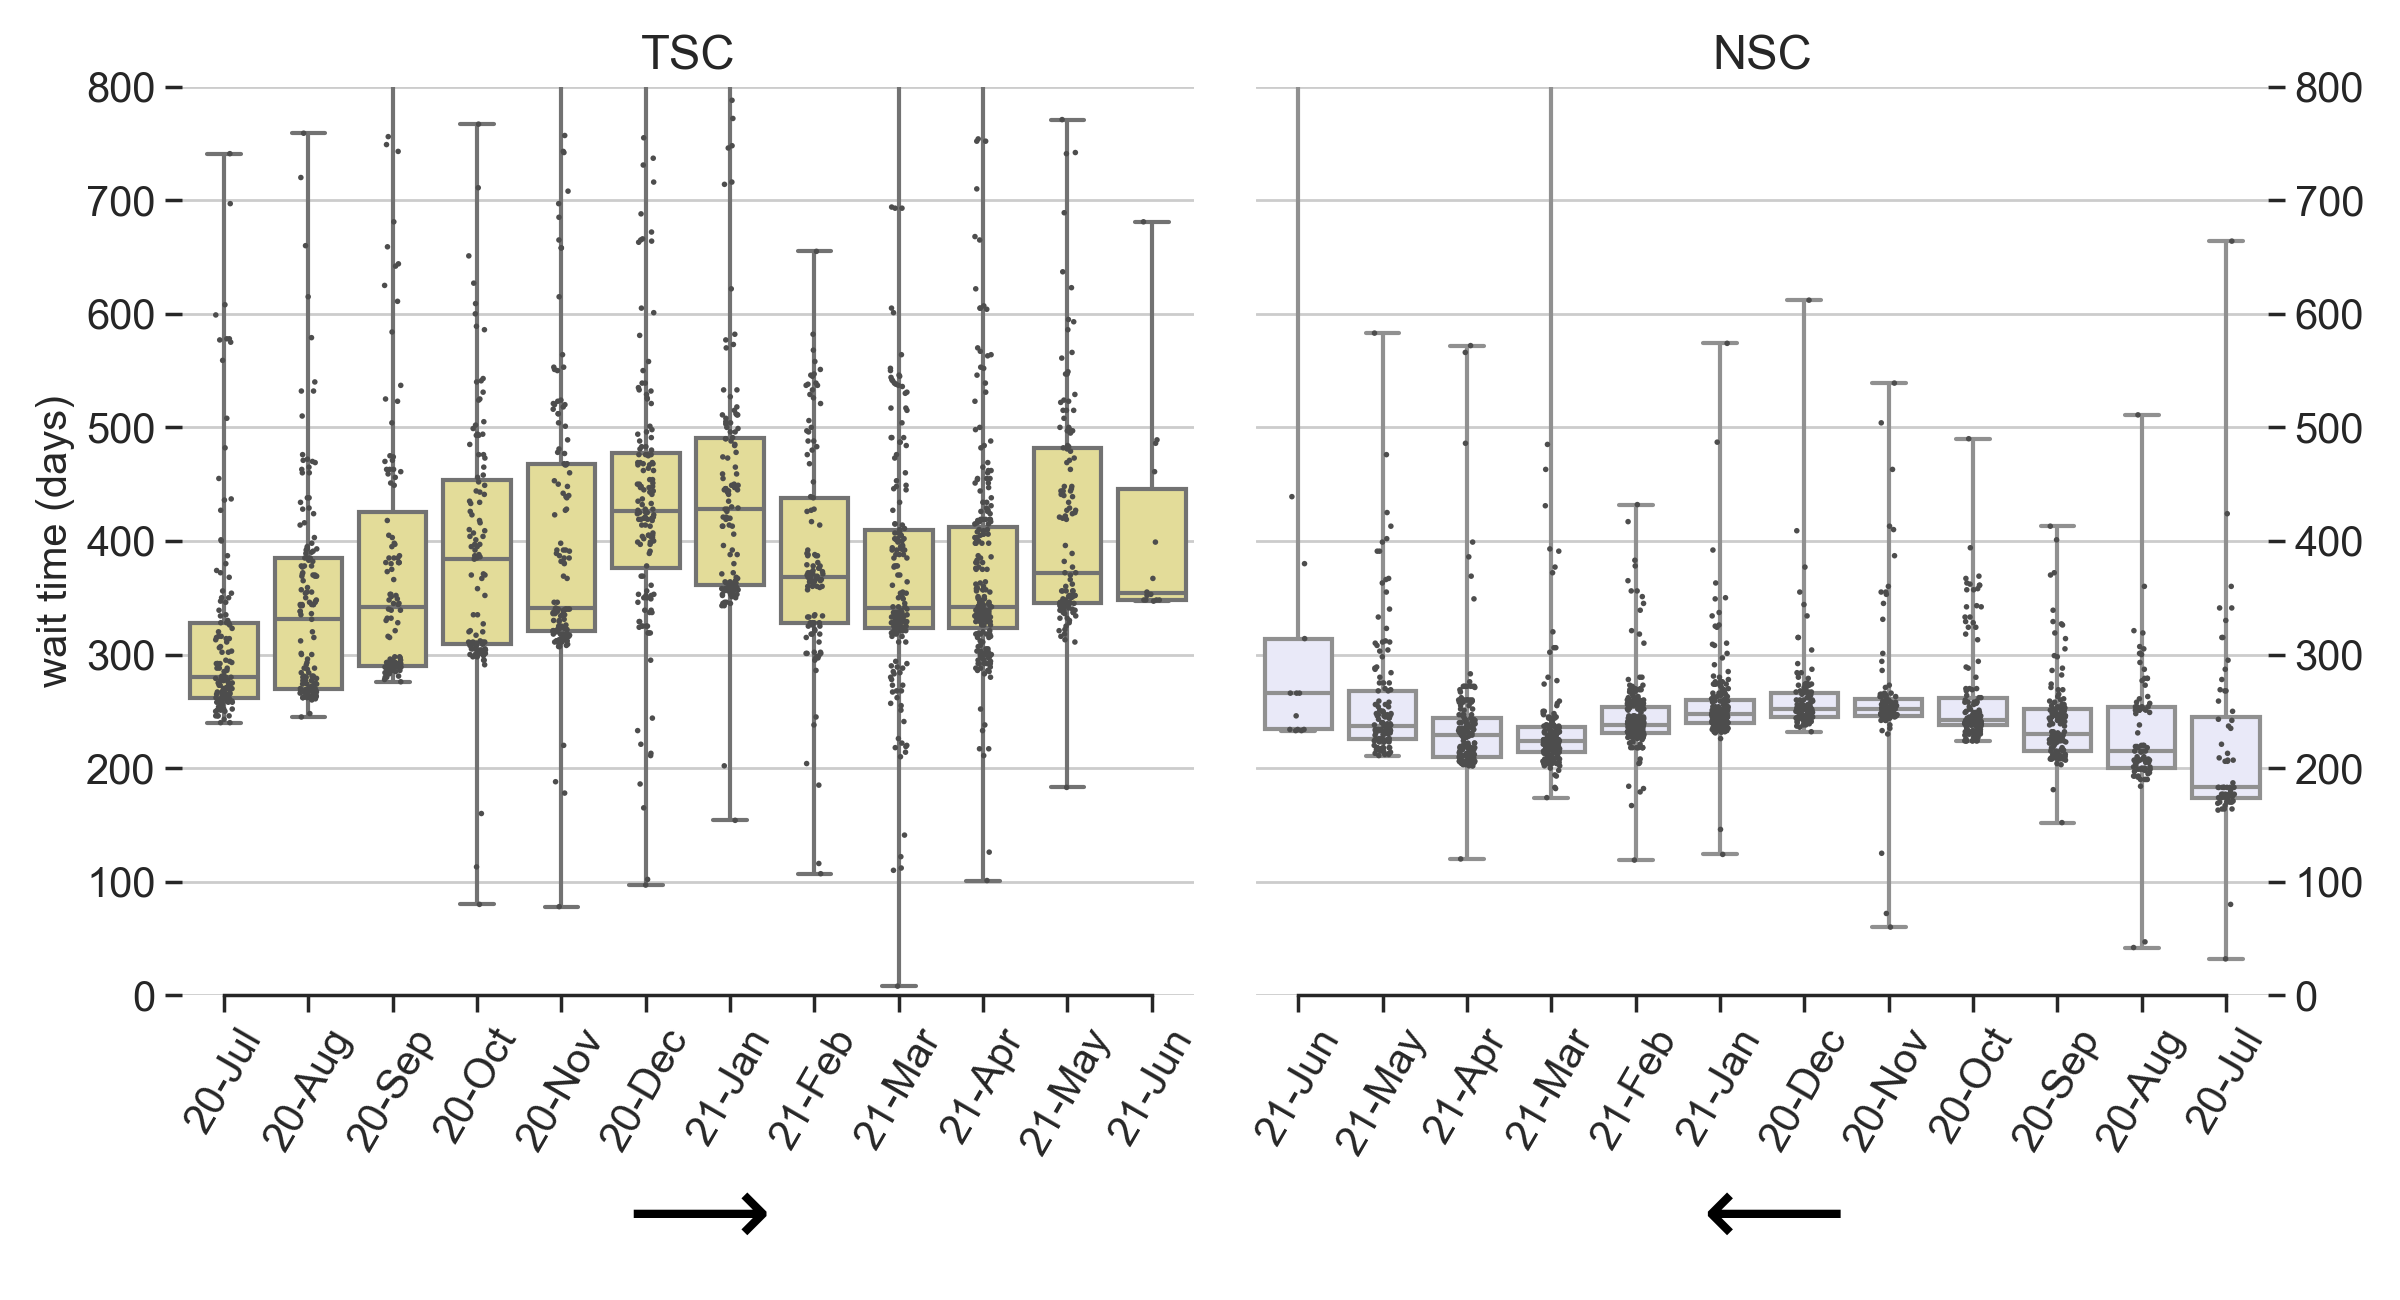
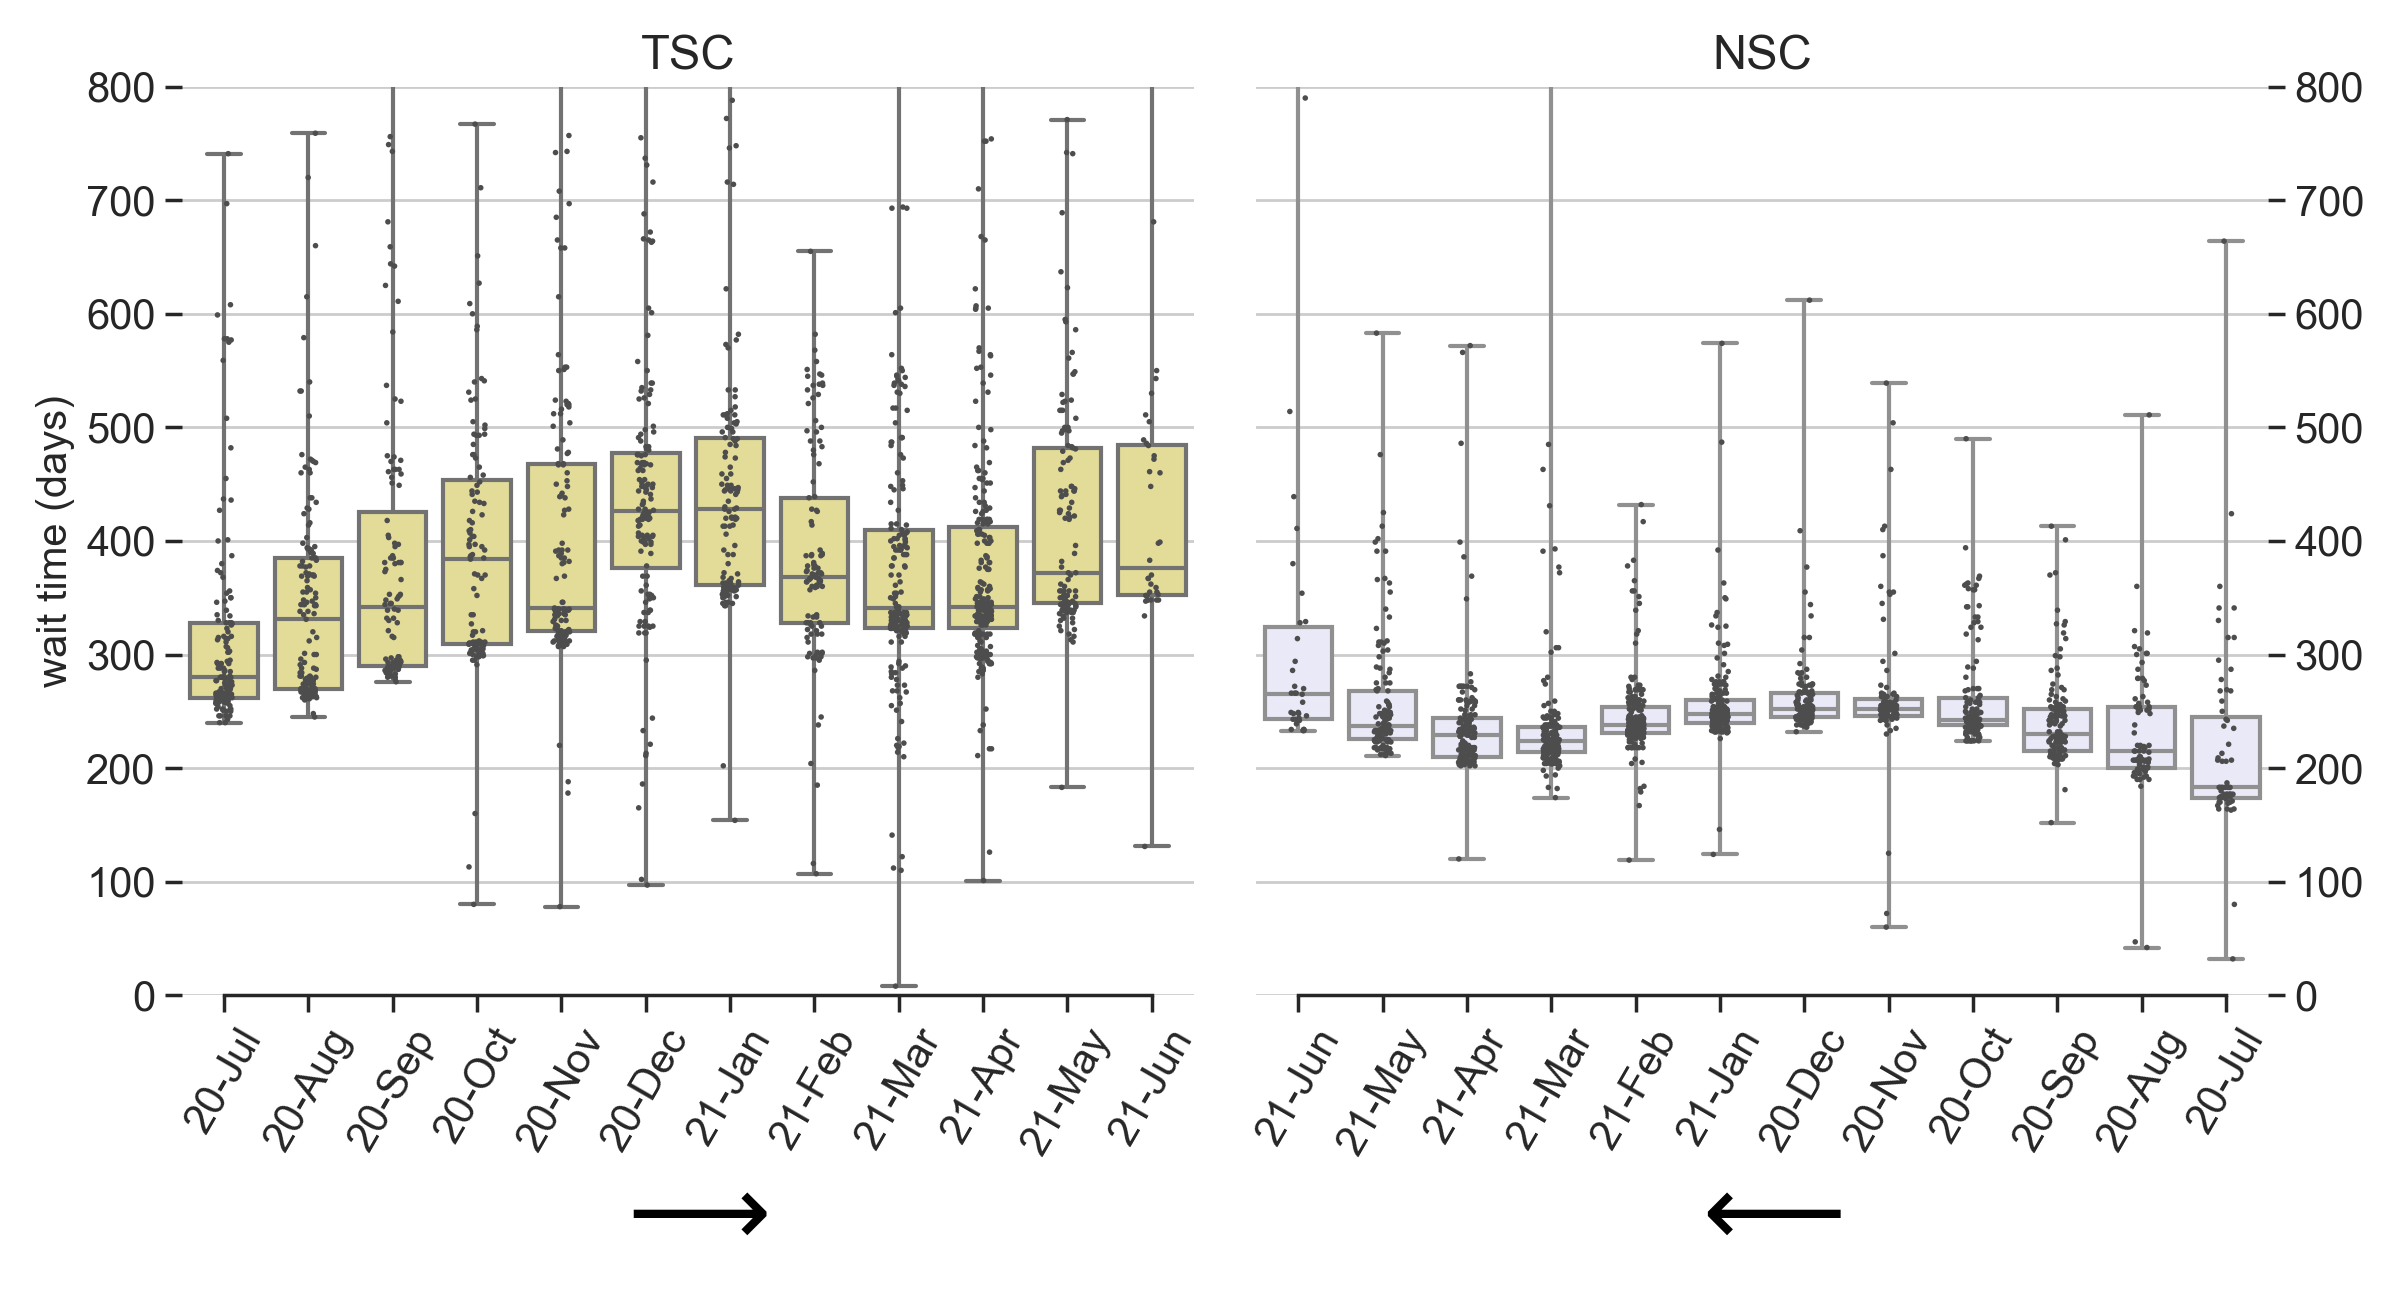
Jun/30 update

diff --git a/README.md b/README.md
@@ -1,4 +1,4 @@
-## National Interest Waiver Wait Time, updated Jun-22-2021 
+## National Interest Waiver Wait Time, updated Jun-30-2021 
 * If you wish to join our Telegram action group to discuss the delays of processing at TSC, please [fill out this form](https://docs.google.com/forms/d/194Vp6uimucdul6iqtNFB1HSKz_z75RKsQ-cp3z7f8YY/viewform?edit_requested=true).
  
 USCIS Employment-based-2 NIW I-140 wait time before approval (data source: [Victoria Chen](https://www.wegreened.com/eb1_niw_approvals)). 
